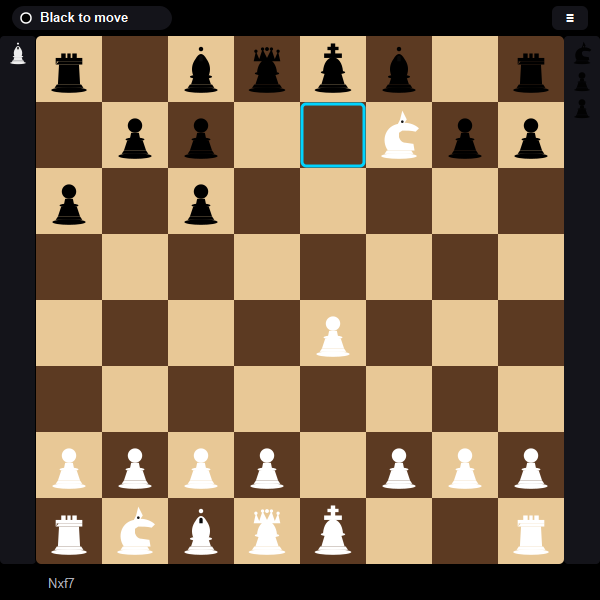
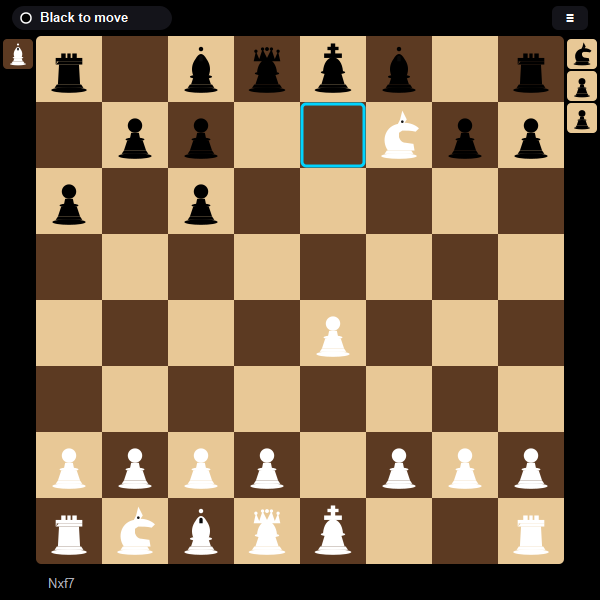
Captured pieces: each on its own contrasting tile
Black silhouettes were fading into the dark strip background on the
additive glasses display. Each captured piece now sits on a small
colored tile — white pieces on a dark-brown tile, black pieces on a
cream tile — mirroring how pieces sit on contrasting squares on the
board. The strip itself drops to transparent so it disappears on the
glasses and only the tiled pieces emit light.

Changed region(s): [[0.93, 0.06, 1.0, 0.96], [0.0, 0.06, 0.06, 0.96]]

diff --git a/styles.css b/styles.css
@@ -256,45 +256,43 @@ html, body {
 
 /* Captured-piece strips flanking the board.
    Width is exactly the existing side margin (board is 528 inside a 600 viewport
-   → 36px per side) so the board doesn't shrink.
-   The strip needs a subtle surface bg: on the additive glasses display the
-   page background is transparent (black = no emission), so without a strip
-   bg the BLACK captured pieces would also be invisible. The dark-grey surface
-   gives just enough contrast for both black and white piece icons. */
+   → 36px per side) so the board doesn't shrink. The strip itself is
+   transparent — each captured-piece gets its own mini "board square" tile
+   (cream behind black pieces, brown behind white) so contrast on the
+   additive display is as good as the in-board pieces. */
 .captured-col {
   width: 36px;
   height: var(--board-px);
   display: flex;
   flex-direction: column;
   align-items: center;
-  padding: 4px 0;
-  gap: 1px;
+  padding: 3px 0;
+  gap: 2px;
   flex-shrink: 0;
   overflow: hidden;
   pointer-events: none;             /* never steal focus / clicks */
-  background: var(--bg-surface);
-  border-radius: 4px;
 }
 .captured-piece {
   display: inline-flex;
   align-items: center;
   justify-content: center;
-  width: 26px;
-  height: 26px;
+  width: 30px;
+  height: 30px;
   flex-shrink: 0;
-  opacity: 0.92;
+  border-radius: 4px;
+  box-shadow: 0 1px 2px rgba(0,0,0,0.3);
 }
+/* Tile colors mirror the in-board contrast: white piece on dark square,
+   black piece on light square. This makes both colors equally visible on
+   the additive glasses display because the tile itself emits the light. */
+.captured-piece.tile-dark  { background: var(--sq-dark); }   /* holds white pieces */
+.captured-piece.tile-light { background: var(--sq-light); }  /* holds black pieces */
+
 .captured-piece svg.piece {
-  /* Override the in-board piece sizing (84%) for these inline icons */
-  width: 100%;
-  height: 100%;
+  /* Override the in-board piece sizing (84%) so the icon fills its tile */
+  width: 88%;
+  height: 88%;
   filter: drop-shadow(0 1px 1px rgba(0,0,0,0.35));
-}
-/* Tiny white halo behind black captured icons so they don't fade into the
-   dark surface bg even at icon size. Mirrors the turn-pill's black-dot trick. */
-.captured-piece svg.piece-black {
-  filter: drop-shadow(0 0 0.5px rgba(255,255,255,0.55))
-          drop-shadow(0 0 0.5px rgba(255,255,255,0.45));
 }
 
 /* The board itself */

diff --git a/app.js b/app.js
@@ -269,8 +269,10 @@ function renderCaptured() {
 
   const whiteEl = document.getElementById('captured-white');
   const blackEl = document.getElementById('captured-black');
-  if (whiteEl) whiteEl.innerHTML = lostByWhite.map(t => `<span class="captured-piece">${pieceSvg(t, 'w')}</span>`).join('');
-  if (blackEl) blackEl.innerHTML = lostByBlack.map(t => `<span class="captured-piece">${pieceSvg(t, 'b')}</span>`).join('');
+  // Tile color is the OPPOSITE of the piece color, mirroring how pieces sit
+  // on contrasting squares on the board. White on dark tile, black on light.
+  if (whiteEl) whiteEl.innerHTML = lostByWhite.map(t => `<span class="captured-piece tile-dark">${pieceSvg(t, 'w')}</span>`).join('');
+  if (blackEl) blackEl.innerHTML = lostByBlack.map(t => `<span class="captured-piece tile-light">${pieceSvg(t, 'b')}</span>`).join('');
 }
 
 // ==================== STATUS LINE ====================
